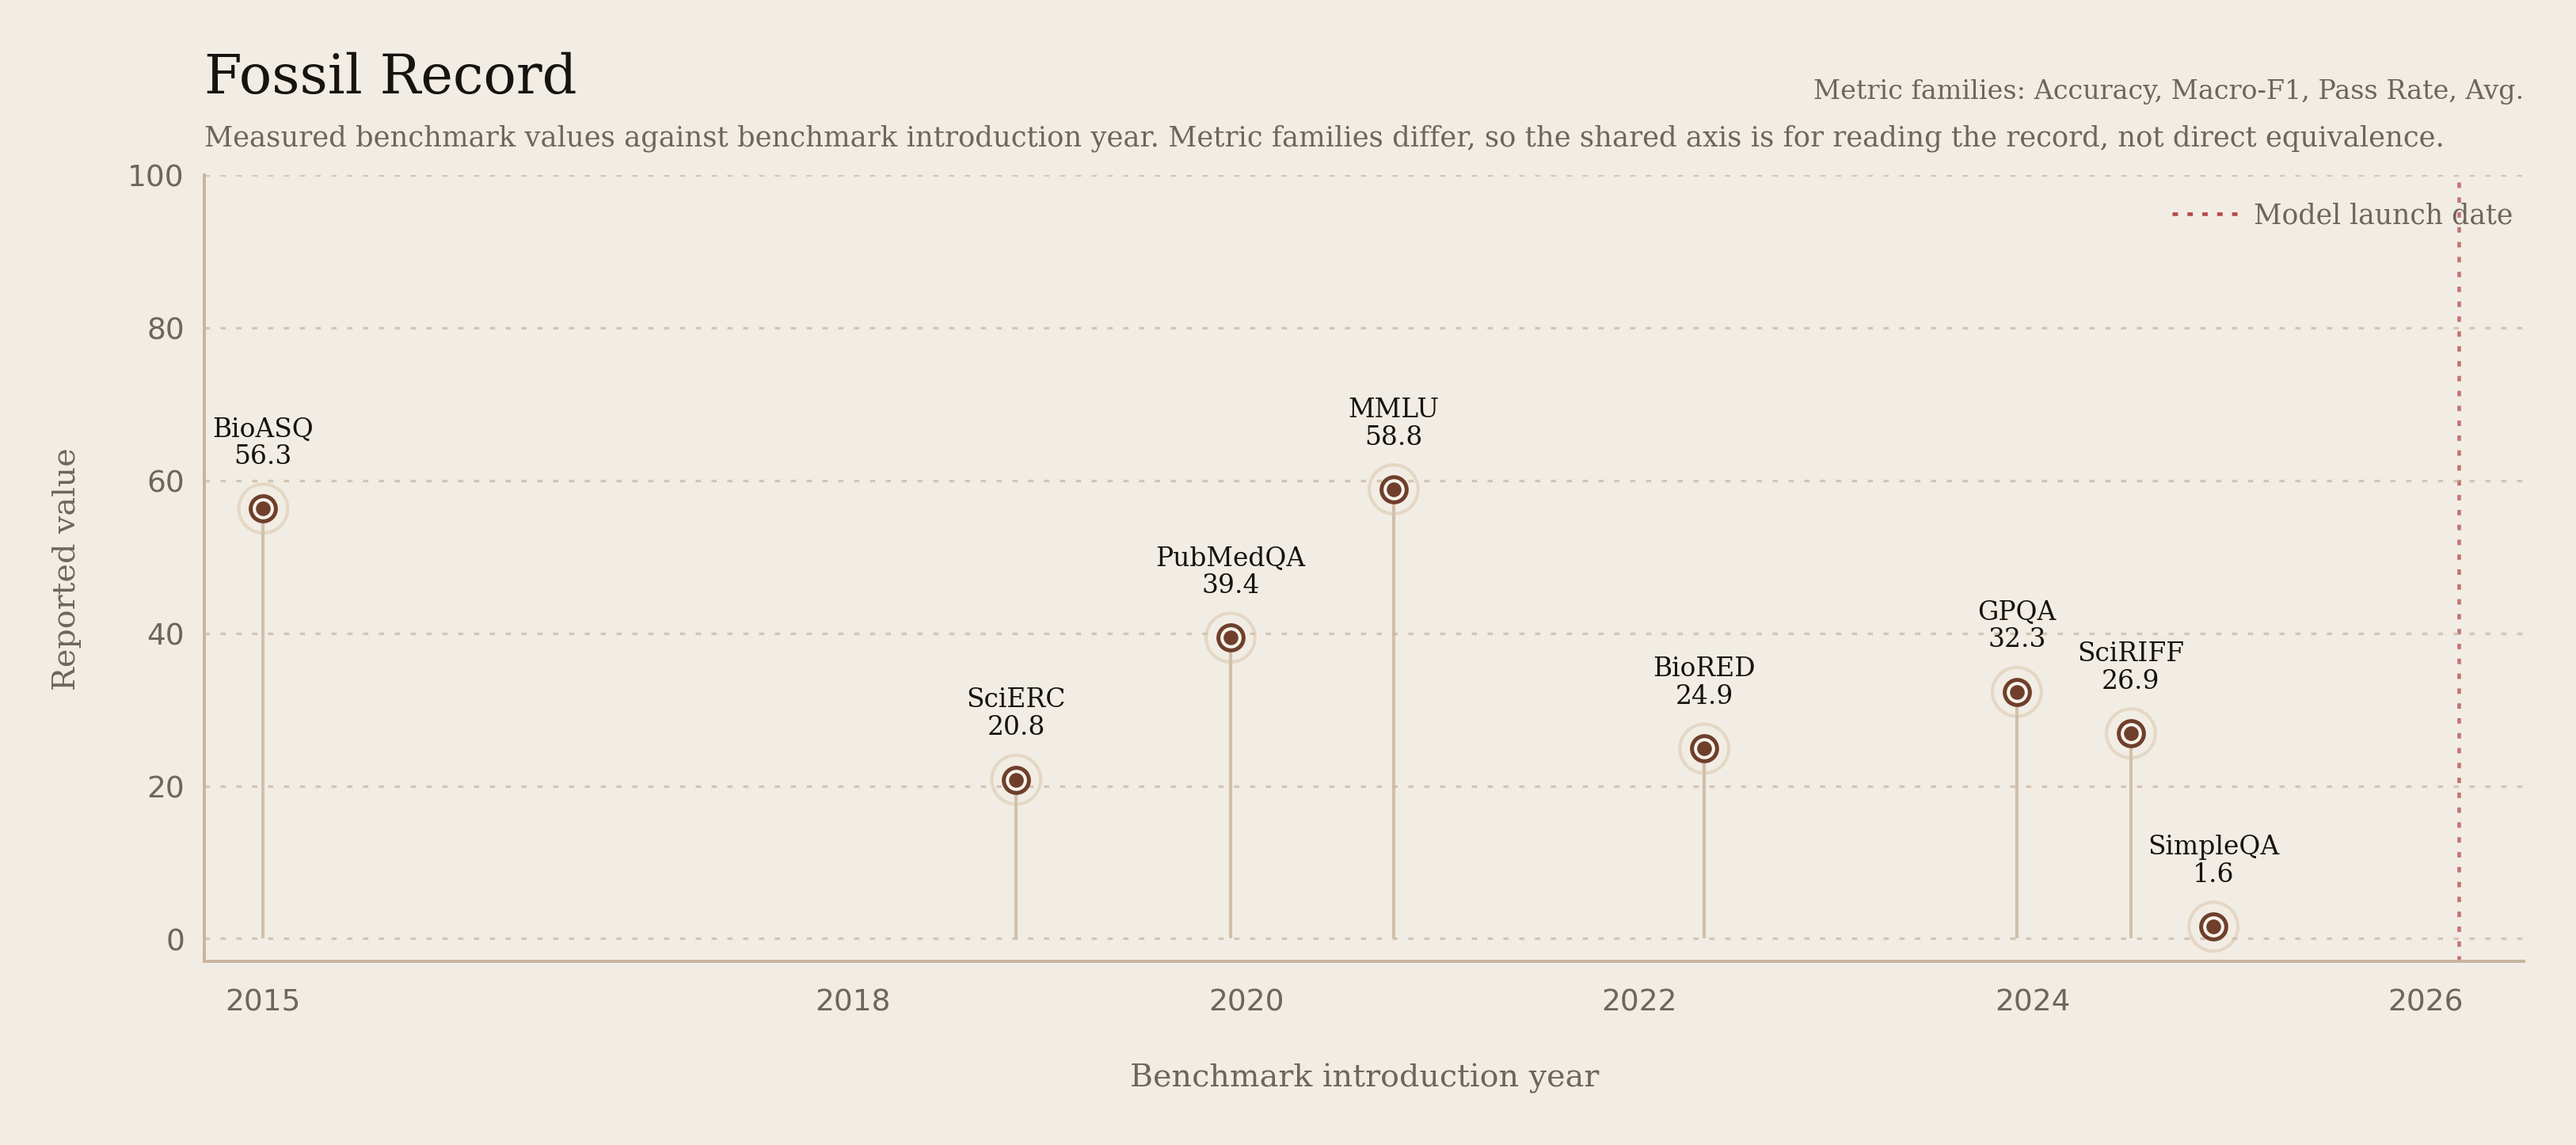
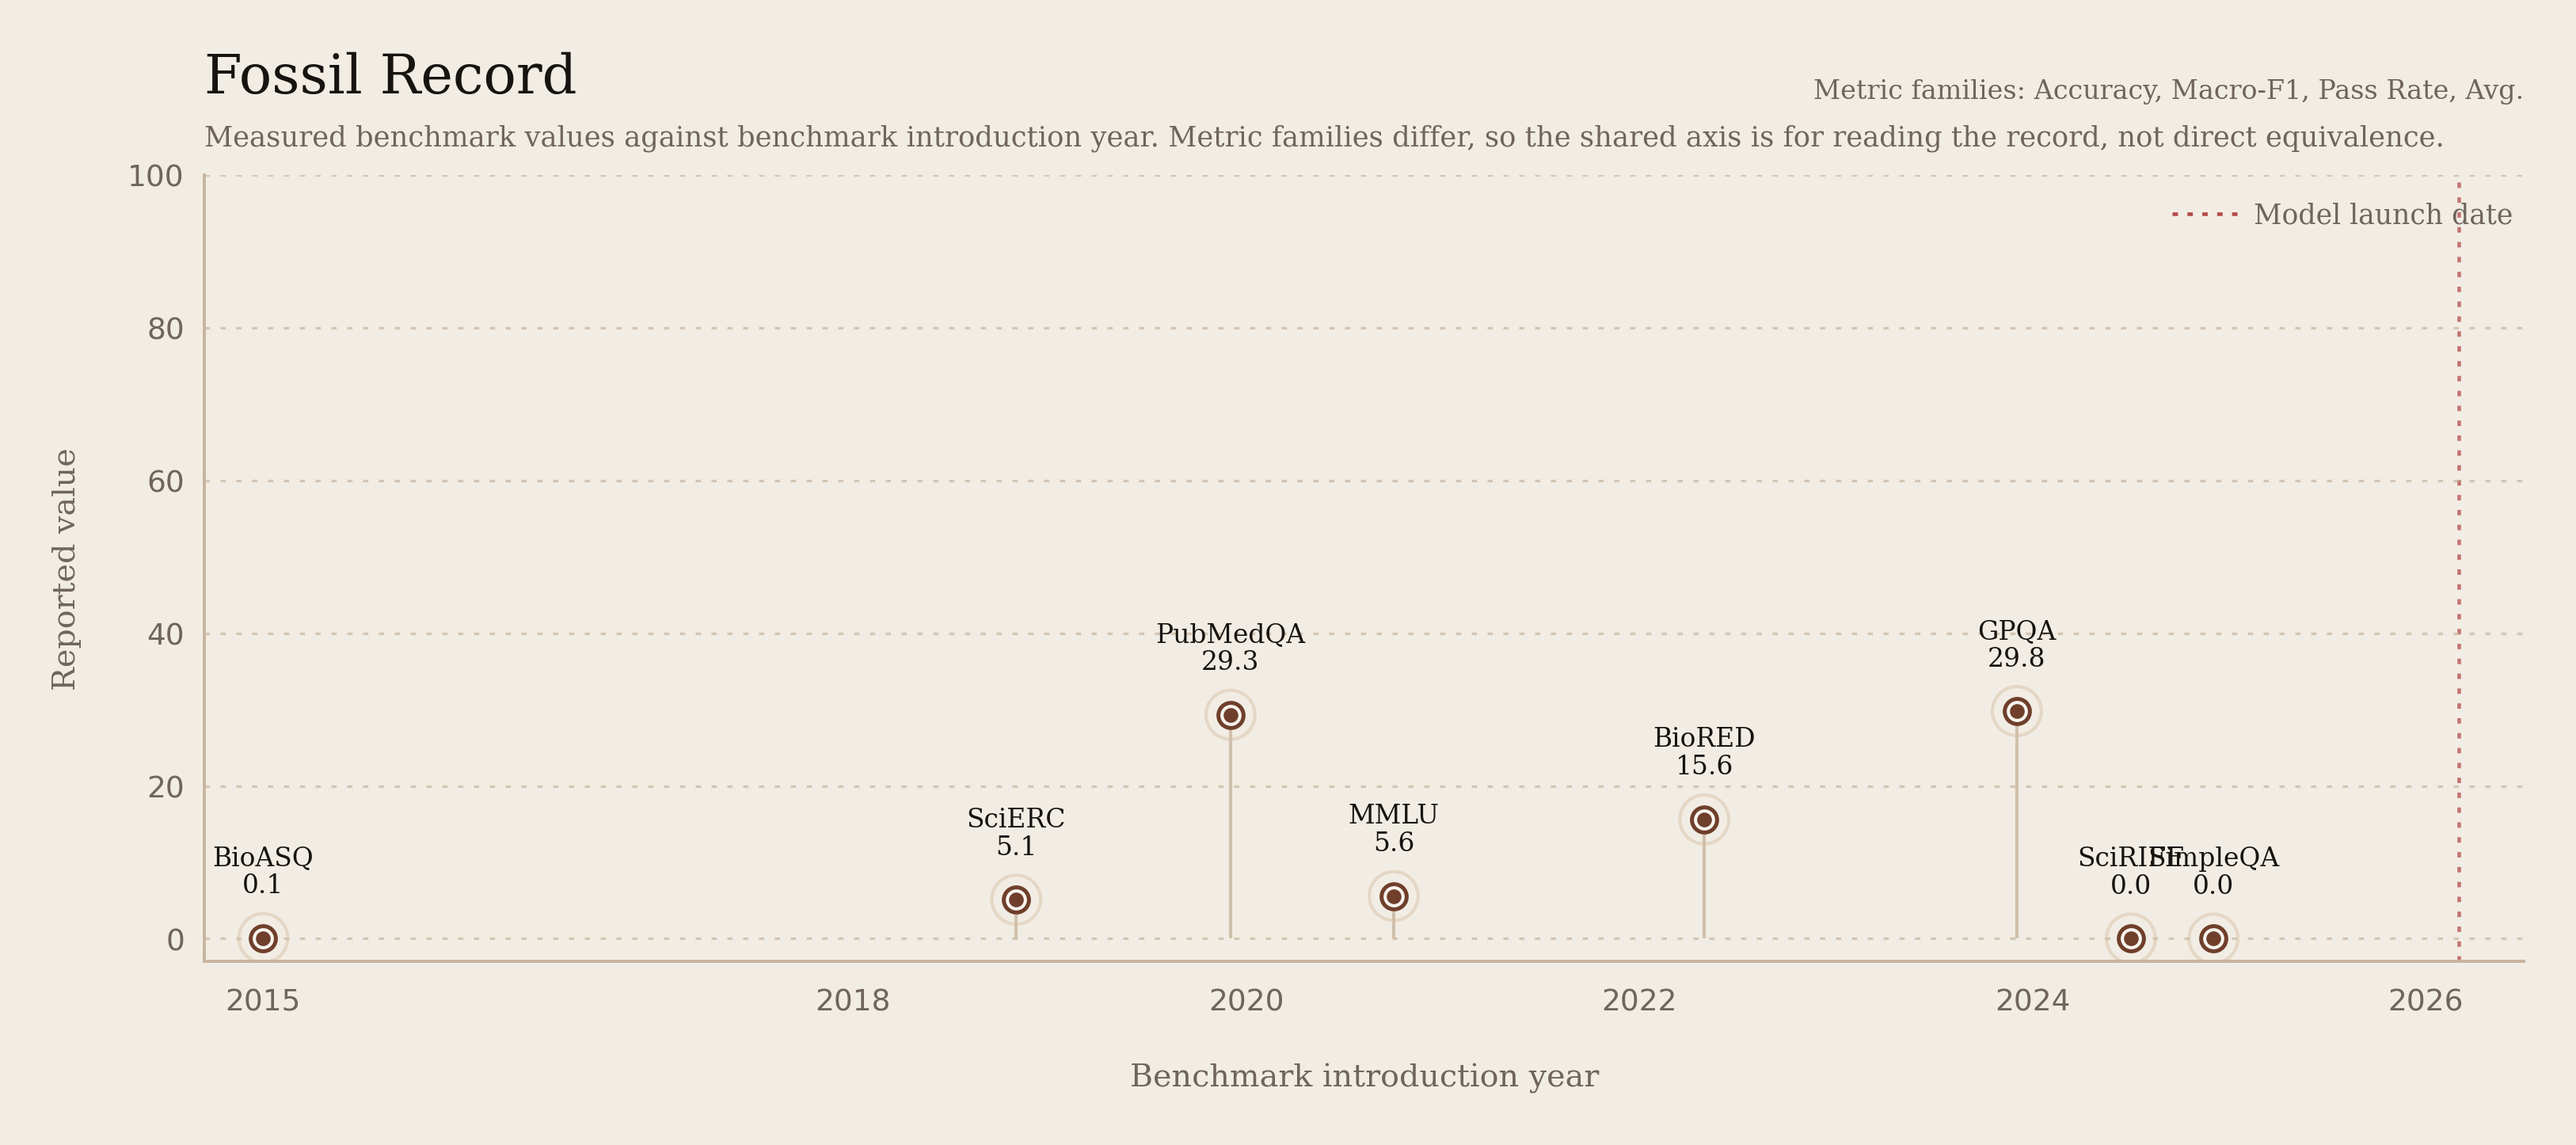
scienceeval: add OLMo Fossils-M sheet
- add OLMo-3.1-32B-Think to the Fossils-M generator
  config and render its fossil imprint plot artifact
- regenerate the Fossils-M catalog from results/fossil-m with
  refreshed Qwen3.5 SciRIFF SFT measurements
- update the Fossils-M page copy to describe the full reference,
  control, and SFT model set

diff --git a/fossils.html b/fossils.html
@@ -121,16 +121,18 @@
         <section class="section section-fossils-page reveal visible" id="fossils">
           <div class="section-heading">
             <p class="section-label">Fossils-M</p>
-            <h2>The Qwen family sheet tracks reference, base, and SFT behavior.</h2>
+            <h2>The model sheets compare references, controls, and SFT behavior.</h2>
           </div>
 
           <div class="section-body">
             <p>
-              For the SciRIFF SFT experiment, read the largest available Qwen
-              run as a family reference, then compare the same small Qwen3.5-2B
-              model before and after SciRIFF SFT. The selector keeps those
-              sheets separate so the trained target is not conflated with the
-              high-capability family reference.
+              For the SciRIFF SFT experiment, use GPT-4o as a public frontier
+              anchor; read Gemma 4-31B-it, Qwen3.6-27B,
+              OLMo-3.1-32B-Think, and gpt-oss-20B as reference checkpoints;
+              then compare Qwen3.5-2B base against the same model after
+              SciRIFF SFT. The selector keeps those sheets separate, and
+              missing rows stay marked Not run when a result bundle lacks that
+              benchmark.
             </p>
             <p>
               Benchmark definitions, source papers, and expandable specimen

diff --git a/scripts/fossil-m/generate_model_fossil_sheet.py b/scripts/fossil-m/generate_model_fossil_sheet.py
@@ -63,6 +63,7 @@ LAUNCH = "#b54b4b"
 MODEL_INTRO_YEARS = {
     "gpt-4o": 2024 + (4 + 13 / 31) / 12,
     "gpt-oss-20b": 2025 + (7 + 5 / 31) / 12,
+    "olmo-3-1-32b-think": 2025 + (11 + 15 / 31) / 12,
     "qwen3-5-2b-base": 2026 + (1 + 28 / 28) / 12,
     "qwen3-5-2b-sciriff4096": 2026 + (1 + 28 / 28) / 12,
     "gemma-4-31b-it": 2026 + (3 + 2 / 30) / 12,
@@ -72,6 +73,7 @@ MODEL_INTRO_YEARS = {
 MODEL_ORDER = (
     "gpt-4o",
     "qwen3-6-27b",
+    "olmo-3-1-32b-think",
     "qwen3-5-2b-base",
     "qwen3-5-2b-sciriff4096",
     "gpt-oss-20b",
@@ -112,6 +114,11 @@ OPEN_MODEL_CONFIGS = {
         "label": "Qwen3.6-27B",
         "model_type": "Open-weight family reference",
         "reading_rule": "Family reference, not the trained target",
+    },
+    "olmo-3-1-32b-think": {
+        "label": "OLMo-3.1-32B-Think",
+        "model_type": "Open-weight reasoning model",
+        "reading_rule": "Reasoning-model reference, not the trained target",
     },
 }
 
